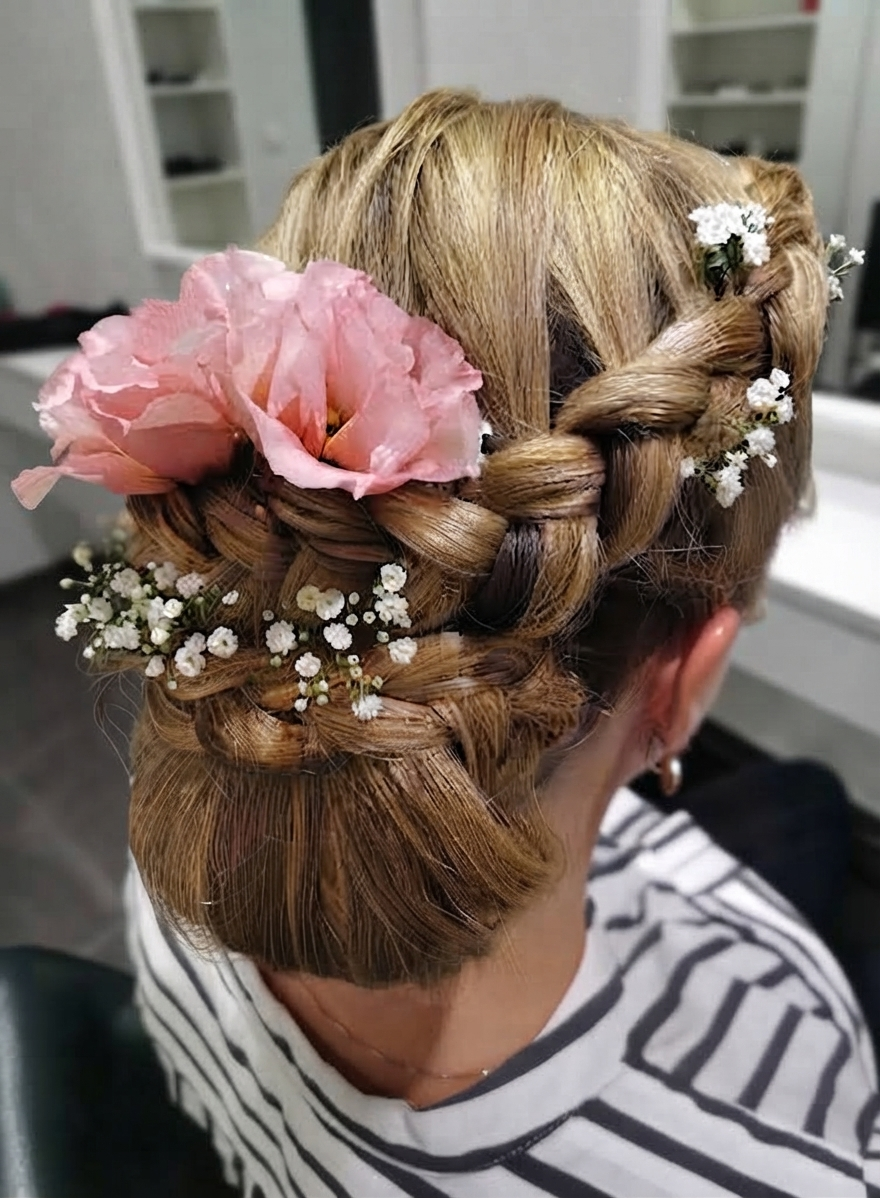
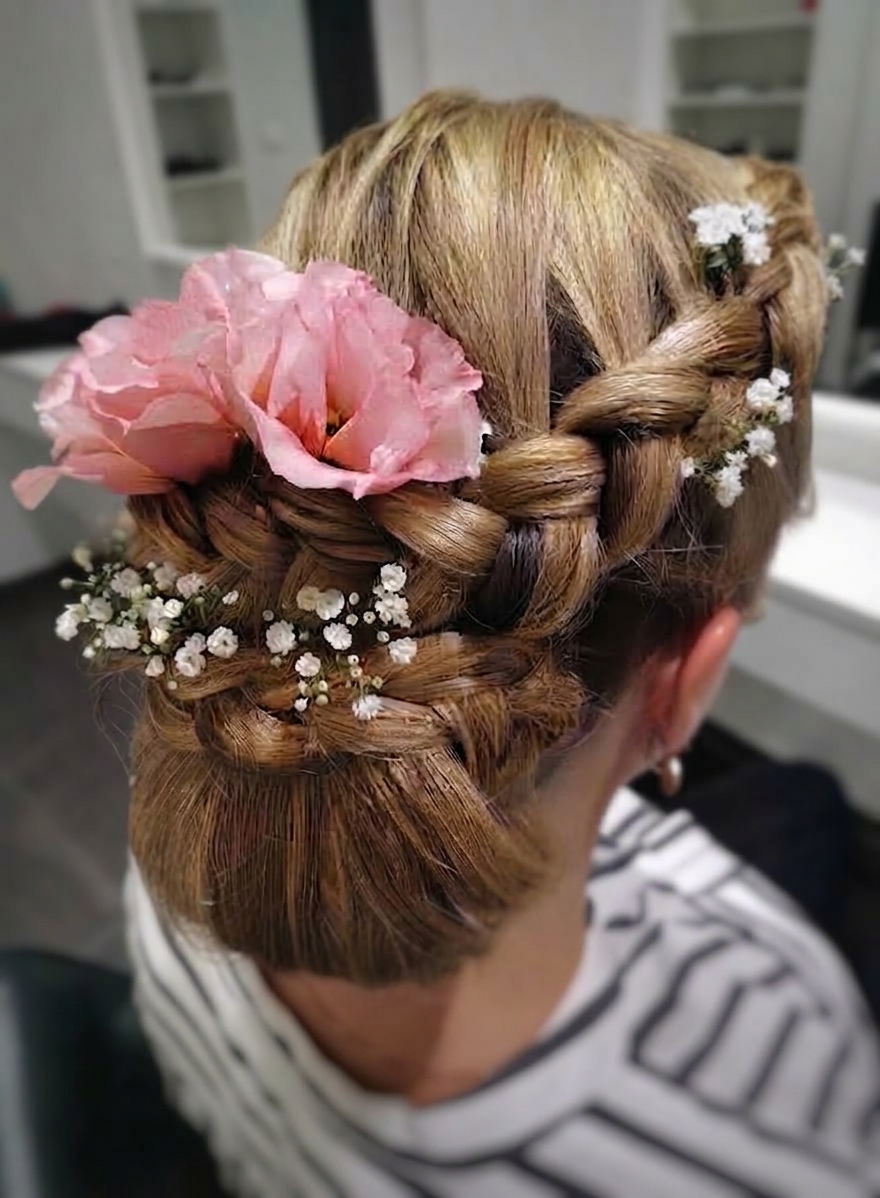
Update photos in testimonials and portfolio, add new images

diff --git a/frontend/src/pages/Home.js b/frontend/src/pages/Home.js
@@ -103,7 +103,9 @@ export default function Home() {
                     <img
                       src={BRIDE_EXPERIENCE[i].image}
                       alt={BRIDE_EXPERIENCE[i].alt}
-                      className="w-full h-full object-cover group-hover:scale-110 transition-transform duration-700"
+className={`w-full h-full object-cover group-hover:scale-110 transition-transform duration-700 ${
+                      i === 1 ? "object-[50%_-15%]" : ""
+                    }`}
                     />
                   </div>
                   <div className="p-7 flex flex-col flex-1">
@@ -222,6 +224,7 @@ export default function Home() {
                   alt={g.alt}
                   loading="lazy"
                   className="w-full h-full object-cover group-hover:scale-110 transition-transform duration-700"
+                  style={g.objectPosition ? { objectPosition: g.objectPosition } : undefined}
                 />
               </div>
             </Reveal>

diff --git a/frontend/src/data/content.js b/frontend/src/data/content.js
@@ -69,8 +69,9 @@ export const PORTFOLIO = [
     alt: "Elegantes Apanhado mit Perlen- und Kristall-Accessoire",
   },
   {
-    image: `${process.env.PUBLIC_URL}/foto_73.jpg`,
+    image: `${process.env.PUBLIC_URL}/foto_88.jpg`,
     alt: "Hochsteckfrisur mit Zöpfen und rosa Blumen",
+    objectPosition: "bottom",
   },
   {
     image: `${process.env.PUBLIC_URL}/foto_72.jpg`,

diff --git a/frontend/src/components/Testimonials.js b/frontend/src/components/Testimonials.js
@@ -7,7 +7,7 @@ import Reveal from "./Reveal";
 const STACK_IMAGES = [
   `${process.env.PUBLIC_URL}/foto_34.jpg`,
   `${process.env.PUBLIC_URL}/foto_77.jpg`,
-  `${process.env.PUBLIC_URL}/foto_88.jpg`,
+  `${process.env.PUBLIC_URL}/foto_911.jpg`,
 ];
 
 export default function Testimonials() {
